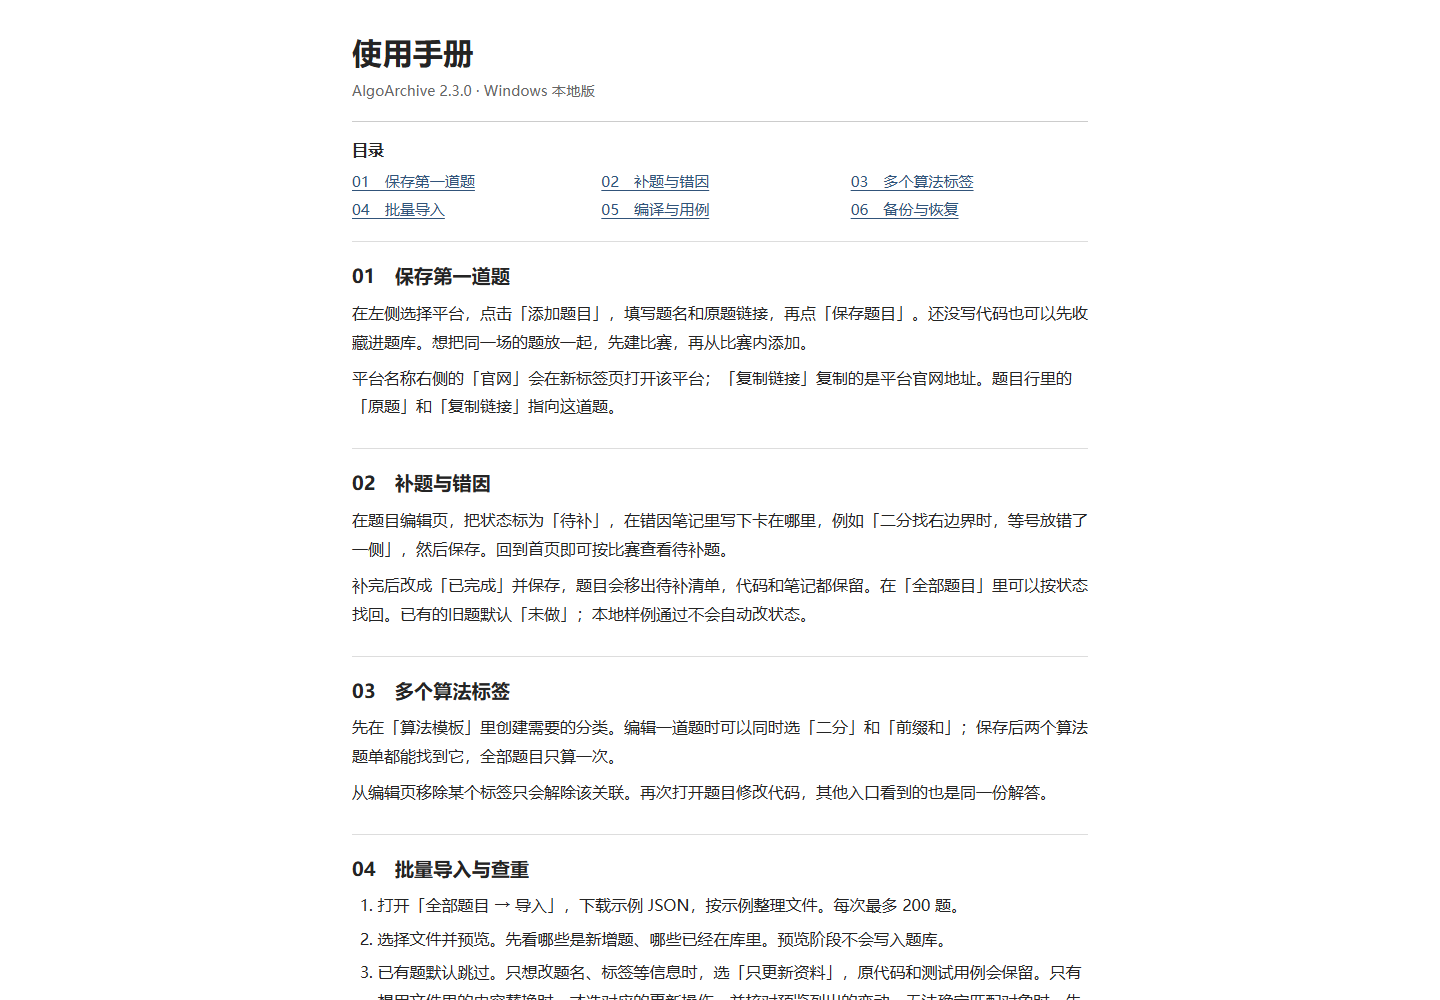
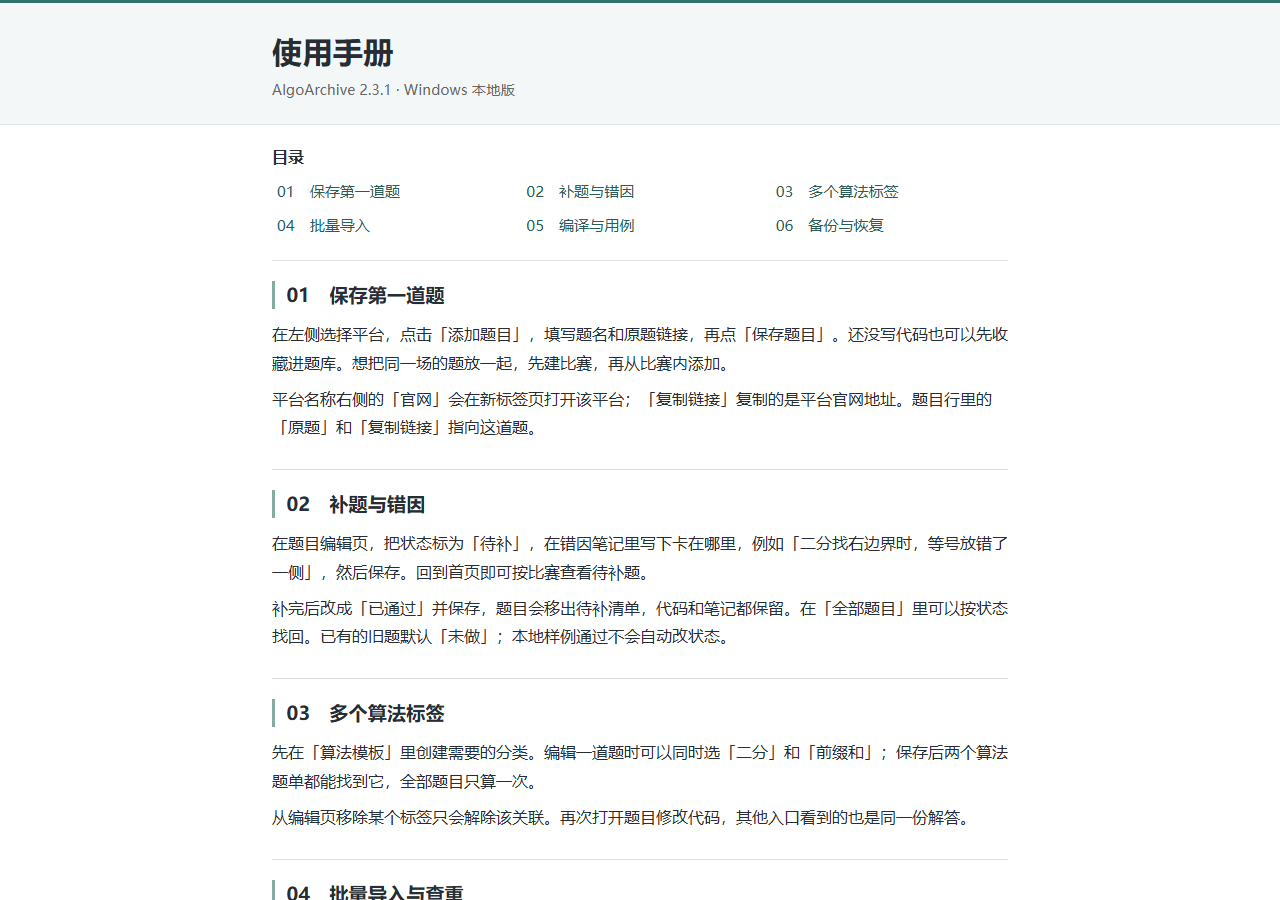
Keep a desktop console for background archives and refine the offline manual (2.3.1)

Changed region(s): [[0.0, 0.0, 1.0, 1.0]]

diff --git a/web/manual.html b/web/manual.html
@@ -1,10 +1,10 @@
 <!doctype html>
 <html lang="zh-CN"><head><meta charset="utf-8"><meta name="viewport" content="width=device-width, initial-scale=1">
-<title>AlgoArchive 使用手册 · 2.3.0</title><link rel="stylesheet" href="manual.css"><link rel="icon" href="favicon-32.png"></head>
-<body id="top"><a class="skip" href="#start">跳到正文</a><header><div class="wrap"><h1>使用手册</h1><p>AlgoArchive 2.3.0 · Windows 本地版</p></div></header>
+<title>AlgoArchive 使用手册 · 2.3.1</title><link rel="stylesheet" href="manual.css"><link rel="icon" href="favicon-32.png"></head>
+<body id="top"><a class="skip" href="#start">跳到正文</a><header><div class="wrap"><h1>使用手册</h1><p>AlgoArchive 2.3.1 · Windows 本地版</p></div></header>
 <div class="wrap layout"><nav aria-label="手册目录"><strong>目录</strong><div class="contents"><a href="#start">01　保存第一道题</a><a href="#review">02　补题与错因</a><a href="#tags">03　多个算法标签</a><a href="#import">04　批量导入</a><a href="#test">05　编译与用例</a><a href="#backup">06　备份与恢复</a></div></nav>
 <main><section id="start"><h2>01　保存第一道题</h2><p>在左侧选择平台，点击「添加题目」，填写题名和原题链接，再点「保存题目」。还没写代码也可以先收藏进题库。想把同一场的题放一起，先建比赛，再从比赛内添加。</p><p>平台名称右侧的「官网」会在新标签页打开该平台；「复制链接」复制的是平台官网地址。题目行里的「原题」和「复制链接」指向这道题。</p></section>
-<section id="review"><h2>02　补题与错因</h2><p>在题目编辑页，把状态标为「待补」，在错因笔记里写下卡在哪里，例如「二分找右边界时，等号放错了一侧」，然后保存。回到首页即可按比赛查看待补题。</p><p>补完后改成「已完成」并保存，题目会移出待补清单，代码和笔记都保留。在「全部题目」里可以按状态找回。已有的旧题默认「未做」；本地样例通过不会自动改状态。</p></section>
+<section id="review"><h2>02　补题与错因</h2><p>在题目编辑页，把状态标为「待补」，在错因笔记里写下卡在哪里，例如「二分找右边界时，等号放错了一侧」，然后保存。回到首页即可按比赛查看待补题。</p><p>补完后改成「已通过」并保存，题目会移出待补清单，代码和笔记都保留。在「全部题目」里可以按状态找回。已有的旧题默认「未做」；本地样例通过不会自动改状态。</p></section>
 <section id="tags"><h2>03　多个算法标签</h2><p>先在「算法模板」里创建需要的分类。编辑一道题时可以同时选「二分」和「前缀和」；保存后两个算法题单都能找到它，全部题目只算一次。</p><p>从编辑页移除某个标签只会解除该关联。再次打开题目修改代码，其他入口看到的也是同一份解答。</p></section>
 <section id="import"><h2>04　批量导入与查重</h2><ol><li>打开「全部题目 → 导入」，下载示例 JSON，按示例整理文件。每次最多 200 题。</li><li>选择文件并预览。先看哪些是新增题、哪些已经在库里。预览阶段不会写入题库。</li><li>已有题默认跳过。只想改题名、标签等信息时，选「只更新资料」，原代码和测试用例会保留。只有想用文件里的内容替换时，才选对应的更新操作，并核对预览列出的变动。无法确定匹配对象时，先跳过该行并检查题号和链接。</li><li>确认选择后再导入。若提示记录已变化，请重新预览，再决定是否更新。</li></ol></section>
 <section id="test"><h2>05　编译与用例</h2><p>在「设置 → 编译器」选择本机的 <code>g++.exe</code>。在题目下方的测试区填写输入和期望输出，选择「运行当前」或「运行全部」。用「保存用例」保留下次还想跑的数据，也可导入 CPH 的 <code>.prob</code> 文件。</p><p><kbd>Ctrl</kbd> + <kbd>S</kbd> 保存当前编辑。左侧「代码试跑」适合临时验证想法，其草稿独立于题库；本地运行不会向平台提交代码。</p></section>

diff --git a/web/manual.css b/web/manual.css
@@ -1,23 +1,29 @@
 * { box-sizing: border-box; }
-html { color: #242424; background: #fff; font: 16px/1.8 system-ui, "Microsoft YaHei", sans-serif; }
+html { color: #272d34; background: #fff; font: 16px/1.8 system-ui, "Microsoft YaHei", sans-serif; }
 body { margin: 0; }
 .wrap { width: min(100% - 40px, 46rem); margin-inline: auto; }
-header .wrap { padding: 32px 0 18px; border-bottom: 1px solid #ccc; }
+header { background: #f3f7f8; border-top: 3px solid #31736b; border-bottom: 1px solid #dee6e5; }
+header .wrap { padding: 28px 0 22px; }
 h1 { margin: 0; font-size: 1.9rem; line-height: 1.4; }
 header p, footer { color: #666; font-size: .9rem; }
 header p { margin: 3px 0 0; }
-nav { padding: 14px 0 18px; border-bottom: 1px solid #ddd; }
+nav { padding: 18px 0; border-bottom: 1px solid #dce3e2; }
 nav strong { display: block; margin-bottom: 3px; }
 .contents { display: grid; grid-template-columns: repeat(3, minmax(0,1fr)); gap: 1px 12px; font-size: .94rem; }
-a { color: #31547a; text-underline-offset: .19em; }
+.contents a { border-radius: 4px; padding: 3px 5px; text-decoration: none; }
+.contents a:hover, .contents a:focus-visible { background: #edf4f2; text-decoration: underline; }
+a { color: #285d59; text-underline-offset: .19em; }
 a:hover { color: #132f50; }
 a:focus-visible { outline: 2px solid currentColor; outline-offset: 2px; }
 section { padding: 20px 0; border-bottom: 1px solid #ddd; scroll-margin-top: 10px; }
-h2 { margin: 0 0 .4em; font-size: 1.2rem; line-height: 1.5; }
+h2 { margin: 0 0 .55em; padding-left: .6em; border-left: 3px solid #83aaa4; font-size: 1.2rem; line-height: 1.45; }
+section:target h2 { border-color: #22675c; color: #225d53; }
 p, ol { margin: .45em 0; }
 ol { padding-left: 1.6em; }
 li + li { margin-top: .3em; }
 code, kbd { font-family: Consolas, monospace; }
+code, kbd { background: #f1f3f4; padding: .08em .32em; border-radius: 3px; }
+kbd { border: 1px solid #d4dbdc; border-bottom-width: 2px; }
 footer { padding: 16px 0 30px; }
 .skip { position: absolute; inset: -100px auto auto 8px; background: white; padding: 4px 8px; }
 .skip:focus { top: 4px; }

diff --git a/web/app.js b/web/app.js
@@ -37,7 +37,7 @@
   const languages = {cpp: 'C++', python: 'Python', java: 'Java', other: '其他'};
   // The demo bootstrap consumes its fixture before app.js, but retains the version marker.
   const localStudy = !window.__DEMO_VERSION__;
-  const studyLabels = {unseen:'未做', todo:'待补', done:'已完成'};
+  const studyLabels = {unseen:'未做', todo:'待补', done:'已通过'};
   const studyStatus = p => Object.hasOwn(studyLabels,p.study_status) ? p.study_status : 'unseen';
   const extensions = {cpp: '.cpp', python: '.py', java: '.java', other: '.txt'};
   const fileLikeDomainSuffixes = new Set(['c','cc','cfg','cpp','css','csv','dll','exe','h','hpp','htm','html','ico','ini','java','jpeg','jpg','js','json','jsx','log','md','pdf','png','py','rar','svg','toml','ts','tsx','txt','webp','yaml','yml','zip','7z']);

diff --git a/demo/store.js b/demo/store.js
@@ -101,7 +101,7 @@
     function dispatch(method, route, payload) {
       if (method === "GET" && route === "/api/state") return state();
       if (method === "GET" && route === "/api/settings") return { settings: {
-        version: options.version || "2.3.0", address: options.address || "GitHub Pages · 在线演示", database_schema: "演示内存数据",
+        version: options.version || "2.3.1", address: options.address || "GitHub Pages · 在线演示", database_schema: "演示内存数据",
         data_dir: "当前页面内存（刷新重置）", config_path: "不适用（在线演示）", log_path: "不适用（在线演示）", backup_dir: "不适用（在线演示）",
         browser: { mode: "default", window_mode: "tab" },
         sidebar_art: data.sidebar_art,

diff --git a/web/index.html b/web/index.html
@@ -12,8 +12,8 @@
 <link rel="stylesheet" href="/style.css?v=20261030-platform-normalize">
 <link rel="stylesheet" href="/codex-theme.css?v=20261115-card-colors">
 <link rel="stylesheet" href="/mobile.css?v=20261030-platform-normalize">
-<link rel="stylesheet" href="/workspace-updates.css?v=2.3.0">
-<script src="/app.js?v=2.3.0" defer></script>
+<link rel="stylesheet" href="/workspace-updates.css?v=2.3.1">
+<script src="/app.js?v=2.3.1" defer></script>
 </head>
 <body>
 <div class="app-shell">

diff --git a/app.py b/app.py
@@ -45,7 +45,7 @@ from cph_runner import (
 )
 
 
-APP_VERSION = "2.3.0"
+APP_VERSION = "2.3.1"
 CARD_COLORS = ("blue", "cyan", "green", "amber", "rose", "violet")
 SIDEBAR_ART_IMAGES = ("debug", "thinking", "celebration")
 ROOT = Path(__file__).resolve().parent
@@ -910,13 +910,14 @@ class DataDirectoryLock:
                 stream.flush()
                 os.fsync(stream.fileno())
 
-    def read_port(self):
+    def read_owner(self):
         try:
             with self.path.open("rb") as stream:
                 stream.seek(1)
-                return json.loads(stream.read(2048)).get("port")
+                owner = json.loads(stream.read(2048))
+                return owner if isinstance(owner, dict) else {}
         except (OSError, ValueError):
-            return None
+            return {}
 
     def close(self):
         if self.acquired:
@@ -4063,6 +4064,32 @@ def create_app(data_dir=None, port=0, web_dir=None):
         raise
 
 
+def desktop_console_lock(data_dir):
+    project = hashlib.sha256(os.path.normcase(str(data_dir)).encode("utf-8")).hexdigest()
+    return DataDirectoryLock(Path(tempfile.gettempdir()) / "AlgoArchive-console" / project)
+
+
+def watch_background_console(data_dir, pid):
+    import _winapi
+    if type(pid) is not int or not 0 < pid <= 0xffffffff:
+        return
+    console = desktop_console_lock(data_dir)
+    if not console.acquired:
+        return
+    try:
+        handle = _winapi.OpenProcess(_winapi.SYNCHRONIZE, False, pid)
+        try:
+            print("后台服务正在运行。关闭此状态窗口不会停止服务；可在设置中退出程序。", flush=True)
+            while _winapi.WaitForSingleObject(handle, 1000) == _winapi.WAIT_TIMEOUT:
+                pass
+        finally:
+            _winapi.CloseHandle(handle)
+    except (OSError, KeyboardInterrupt):
+        pass
+    finally:
+        console.close()
+
+
 def main(argv=None):
     parser = argparse.ArgumentParser(description="AlgoArchive 本地算法档案管理")
     parser.add_argument("--data-dir")
@@ -4103,13 +4130,16 @@ def main(argv=None):
                 f"data_{state['state']}",
                 path=str(data_dir),
             )
+    desktop_console = (os.name == "nt" and not args.no_browser and
+                       sys.stdin is not None and sys.stdin.isatty())
     directory_lock = DataDirectoryLock(data_dir)
     if not directory_lock.acquired:
         # The first launch may still be starting. Only trust a matching health
         # identity, and never open a browser based on arbitrary lock-file text.
         project_id = hashlib.sha256(str(data_dir).encode("utf-8")).hexdigest()
         for _ in range(15):
-            port = directory_lock.read_port()
+            owner = directory_lock.read_owner()
+            port = owner.get("port")
             if type(port) is int and 0 < port <= 65535:
                 try:
                     with urlopen(f"http://127.0.0.1:{port}/api/health", timeout=0.4) as response:
@@ -4119,14 +4149,21 @@ def main(argv=None):
                         print(f"程序已在运行: {address}", flush=True)
                         if not args.no_browser:
                             open_browser(address, config.get("browser"))
+                        if desktop_console:
+                            watch_background_console(data_dir, owner.get("pid"))
                         return 0
                 except Exception:
                     pass
             time.sleep(0.15)
         raise AppError("此数据目录已有程序在运行或正在启动，请查看原来的启动窗口。", 409, "already_running")
+    console = None
     try:
+        if desktop_console:
+            console = desktop_console_lock(data_dir)
         return _run_server(args, directory_lock)
     finally:
+        if console is not None:
+            console.close()
         directory_lock.close()
 
 

diff --git a/tests/test_browser_launcher.py b/tests/test_browser_launcher.py
@@ -17,6 +17,28 @@ import run
 
 
 class BrowserLauncherTests(unittest.TestCase):
+    @unittest.skipUnless(os.name == "nt", "Windows desktop console")
+    def test_only_one_status_console_waits_for_the_background_service(self):
+        import _winapi
+        with tempfile.TemporaryDirectory() as data:
+            owner = app.desktop_console_lock(data)
+            try:
+                with mock.patch("_winapi.OpenProcess") as opened:
+                    app.watch_background_console(data, os.getpid())
+                    opened.assert_not_called()
+            finally:
+                owner.close()
+            with mock.patch("_winapi.WaitForSingleObject", side_effect=[
+                _winapi.WAIT_TIMEOUT, _winapi.WAIT_OBJECT_0
+            ]) as wait, mock.patch("builtins.print"):
+                app.watch_background_console(data, os.getpid())
+            self.assertEqual(wait.call_count, 2)
+            reopened = app.desktop_console_lock(data)
+            try:
+                self.assertTrue(reopened.acquired)
+            finally:
+                reopened.close()
+
     def test_windows_launchers_use_saved_config_instead_of_forced_data_dir(self):
         root = Path(__file__).resolve().parents[1]
         launcher = root / "start.bat"

diff --git a/.github/release-notes/2.3.1.md b/.github/release-notes/2.3.1.md
@@ -1,0 +1,7 @@
+# AlgoArchive 2.3.1
+
+- Windows 已有后台服务时，从桌面打开程序可保留一个可见的状态窗口；重复打开沿用同一题库服务。
+- 离线手册增加浅色页首、章节标记和目录交互；补题状态「已完成」现在显示为「已通过」，仍由用户手动标记。
+- 在线演示首页的六道原题均附完整 GNU C++11 程序和用例，F 题附交互回放。
+
+Windows 安装包和便携包沿用已有数据目录。编译器附件为 MinGW-w64 GCC 8.1.0。升级不会自动改变任何用户的题目状态。

diff --git a/CHANGELOG.md b/CHANGELOG.md
@@ -1,5 +1,11 @@
 # Changelog
 
+## 2.3.1 - 2026-11-22
+
+- 从桌面连接到后台服务时保留一个状态窗口；已有可见启动窗口时继续复用。
+- 离线手册调整目录、章节与键帽样式；手动完成状态显示为「已通过」。
+- 在线演示保留首页原来的六道题及顺序，为各题补充可预览的 C++ 程序与用例。
+
 ## 2.3.0 - 2026-11-22
 
 AlgoArchive 2.3.0 为 Windows 本地题库加入补题和导入工具。在线演示继续使用独立数据。
